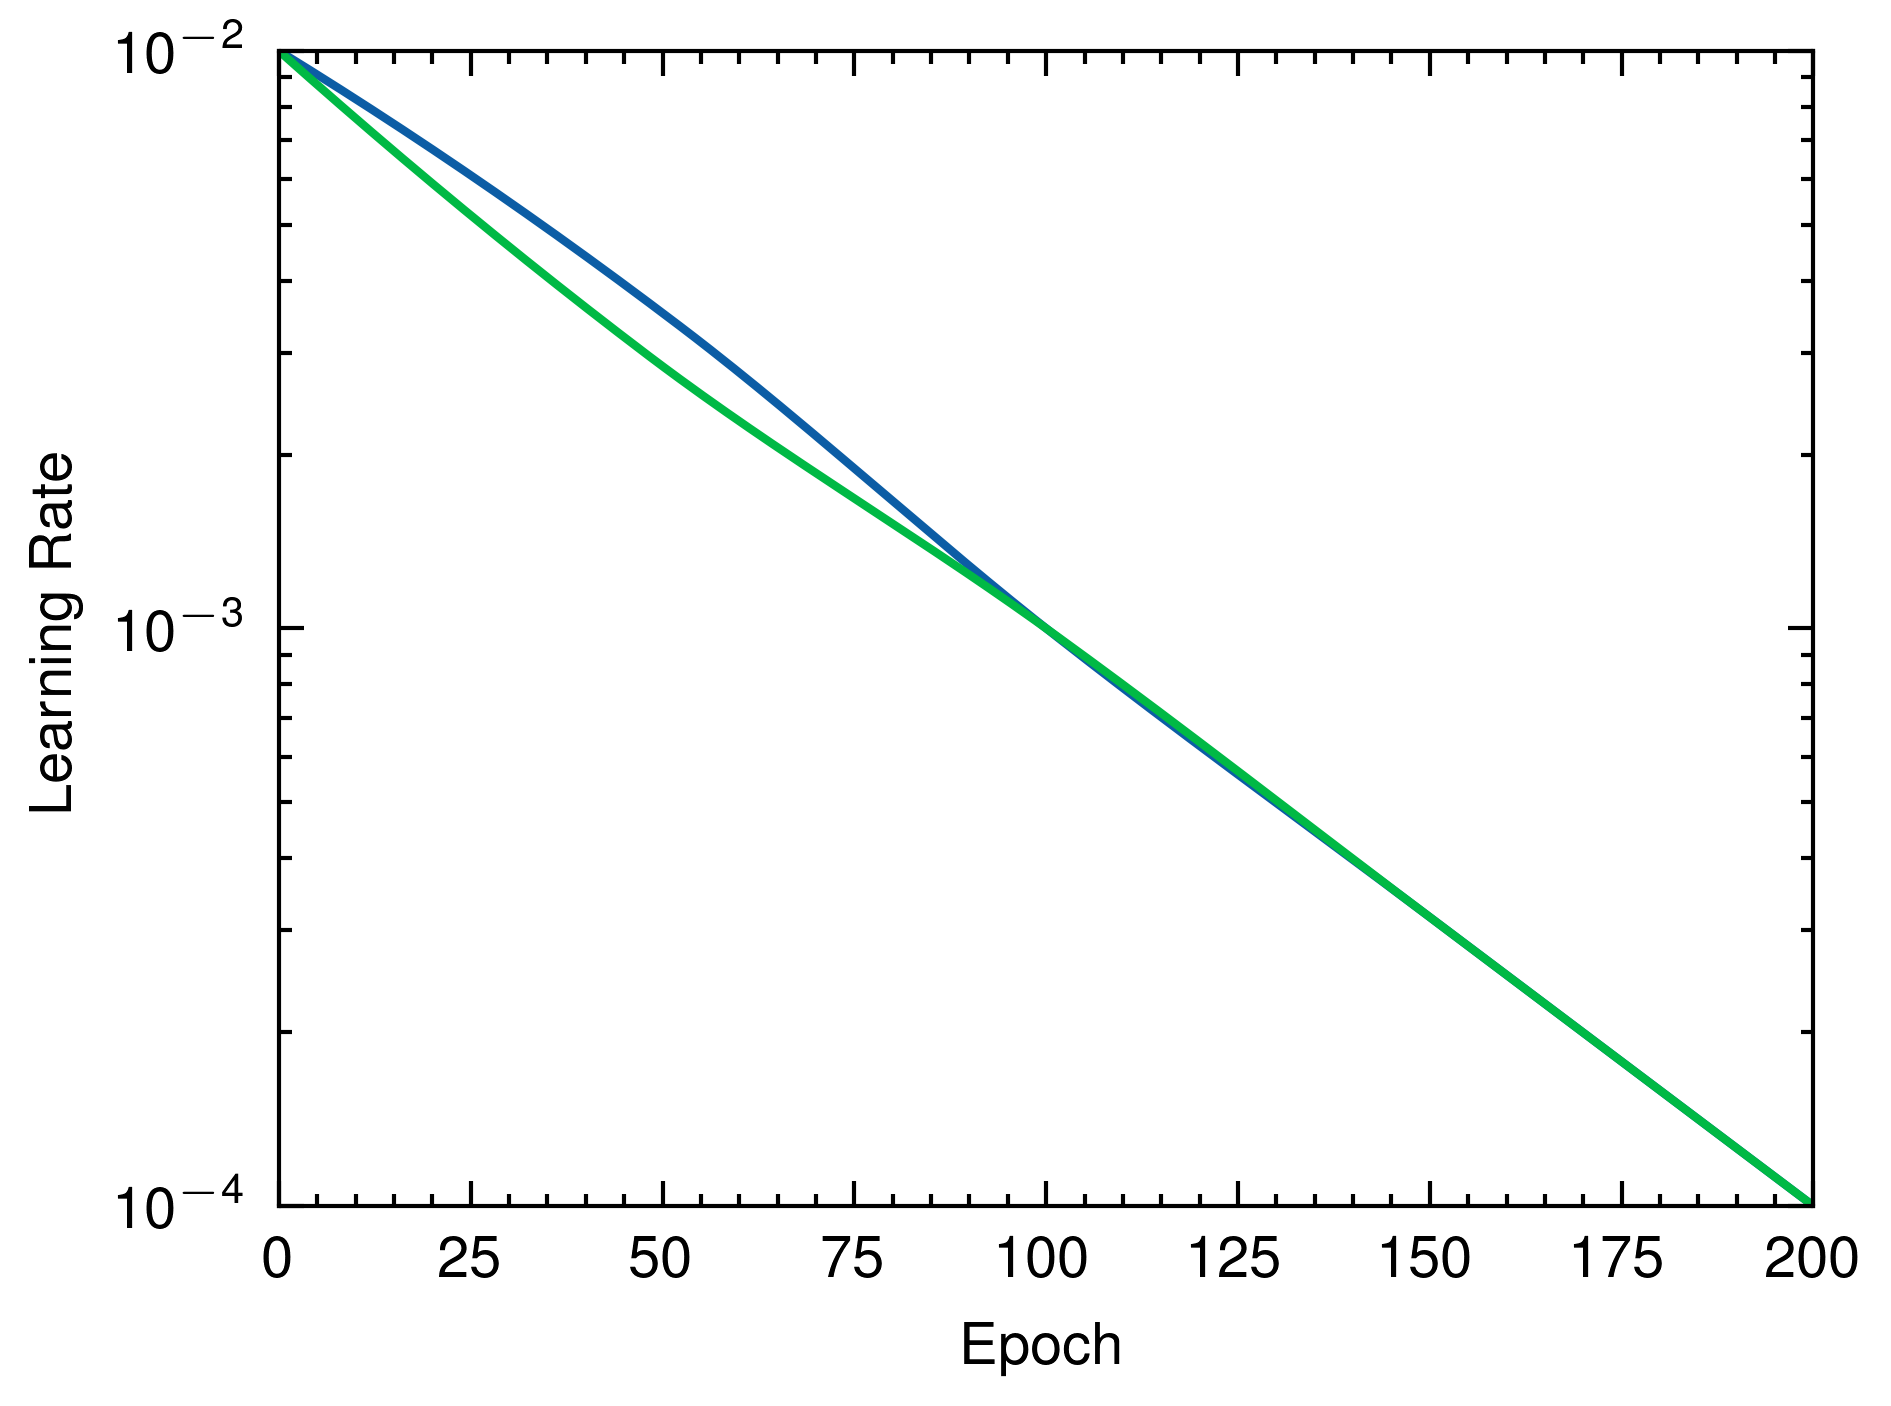
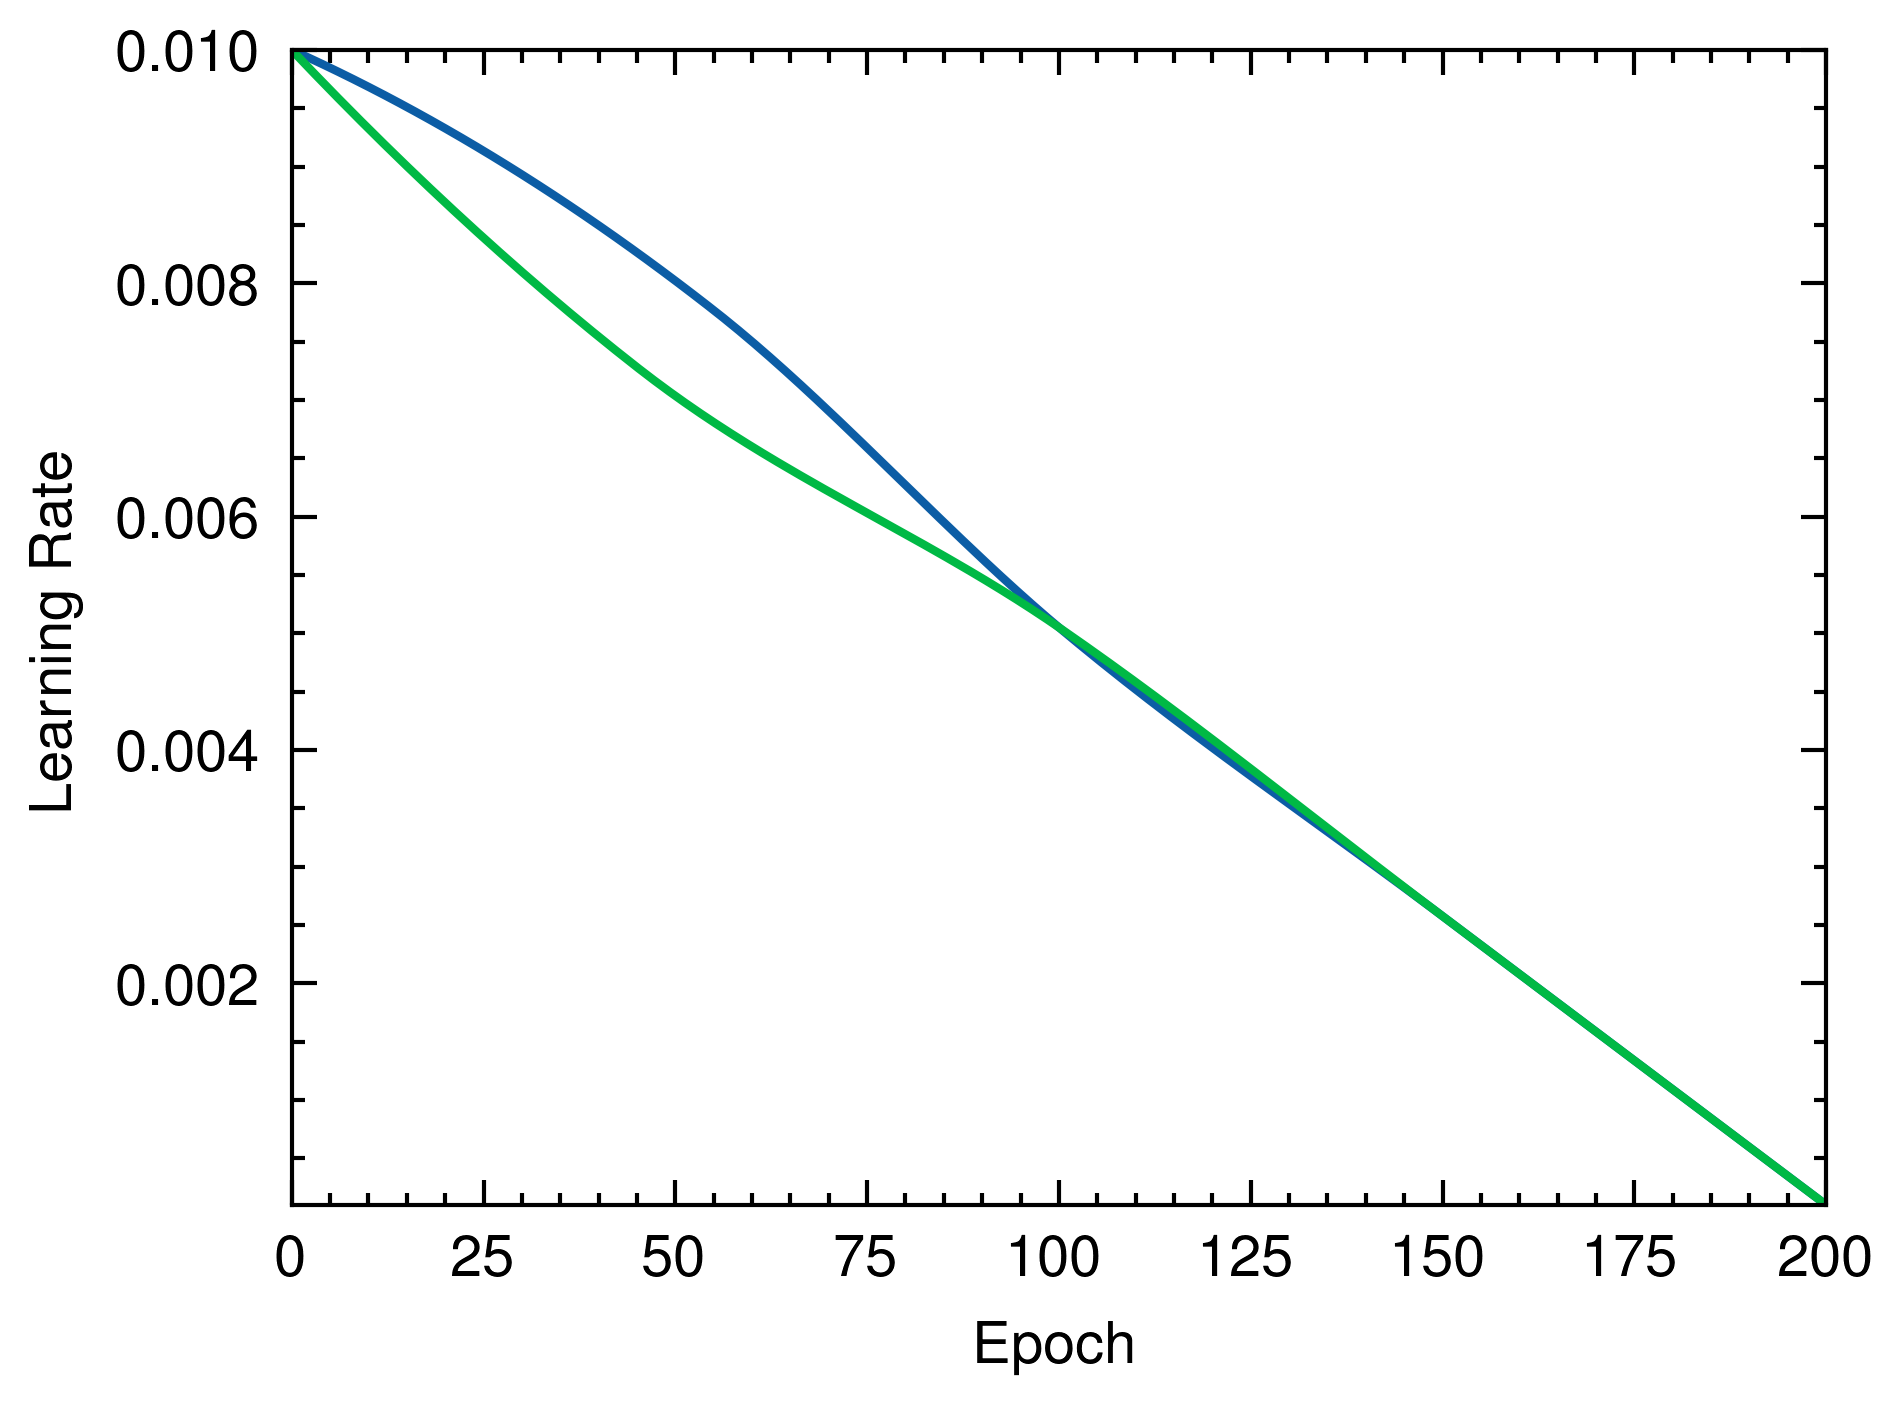
Linear scale

diff --git a/src/main.rs b/src/main.rs
@@ -9,15 +9,16 @@ fn main() -> Result<(), Box<dyn std::error::Error>> {
     let init_lr   = 1e-2;
     let min_lr    = 1e-4;
 
-    let splr = SplineLR { init_lr: init_lr.ln(), min_lr: min_lr.ln(), N: max_epoch };
+    //let splr = SplineLR { init_lr: init_lr.ln(), min_lr: min_lr.ln(), N: max_epoch };
+    let splr = SplineLR { init_lr, min_lr, N: max_epoch };
     let domain = linspace(0, max_epoch, 200);
     for i in 1 ..= 3 {
         let (cs_plus, cs_minus) = splr.gen_splines(i)?;
         let y_plus = cs_plus.eval_vec(&domain);
         let y_minus = cs_minus.eval_vec(&domain);
 
-        let y_plus = y_plus.fmap(|x| x.exp());
-        let y_minus = y_minus.fmap(|x| x.exp());
+        //let y_plus = y_plus.fmap(|x| x.exp());
+        //let y_minus = y_minus.fmap(|x| x.exp());
 
         let mut plt = Plot2D::new();
         plt
@@ -26,7 +27,6 @@ fn main() -> Result<(), Box<dyn std::error::Error>> {
             .insert_image(y_minus)
             .set_xlabel("Epoch")
             .set_ylabel("Learning Rate")
-            .set_yscale(PlotScale::Log)
             .set_style(PlotStyle::Nature)
             .set_dpi(600)
             .tight_layout()
@@ -47,7 +47,7 @@ pub struct SplineLR {
 impl SplineLR {
     fn delta_pt(&self) -> (f64, f64) {
         let theta = self.N.atan2(self.init_lr - self.min_lr);
-        let alpha = theta.min(PI / 2.0 - theta) * 2.0;
+        let alpha = theta.min(PI / 2.0 - theta) * 2000.0;
         let l = ((self.init_lr - self.min_lr).powi(2) + self.N.powi(2)).sqrt() / 4f64;
     
         (l * alpha.tan() * theta.sin(), l * alpha.tan() * theta.cos())
